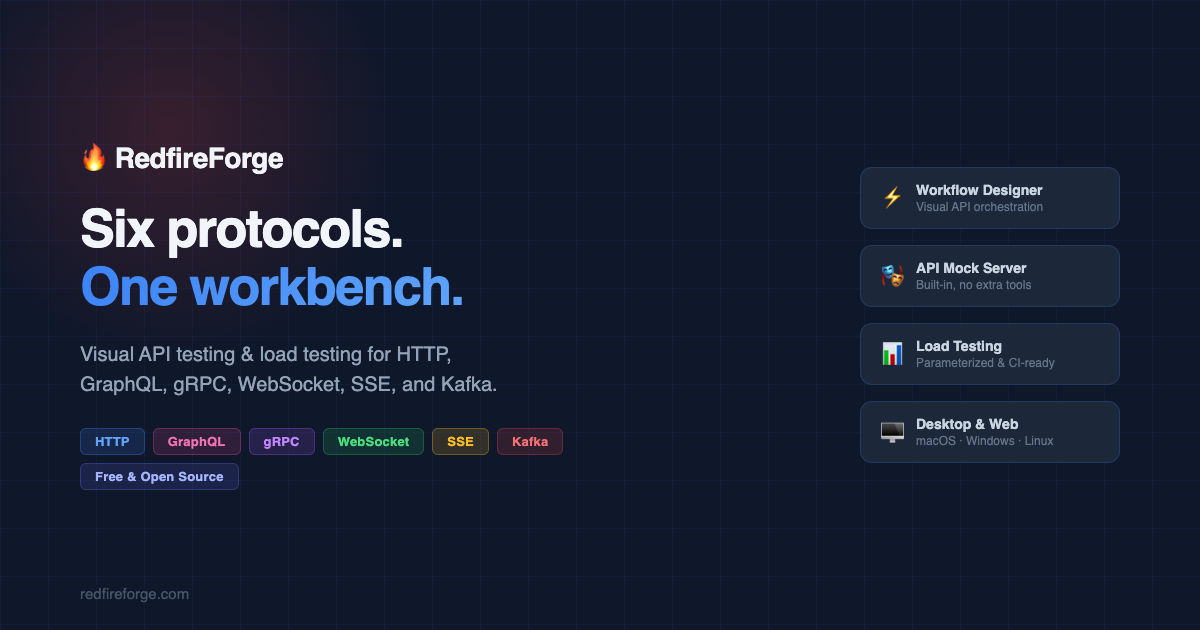
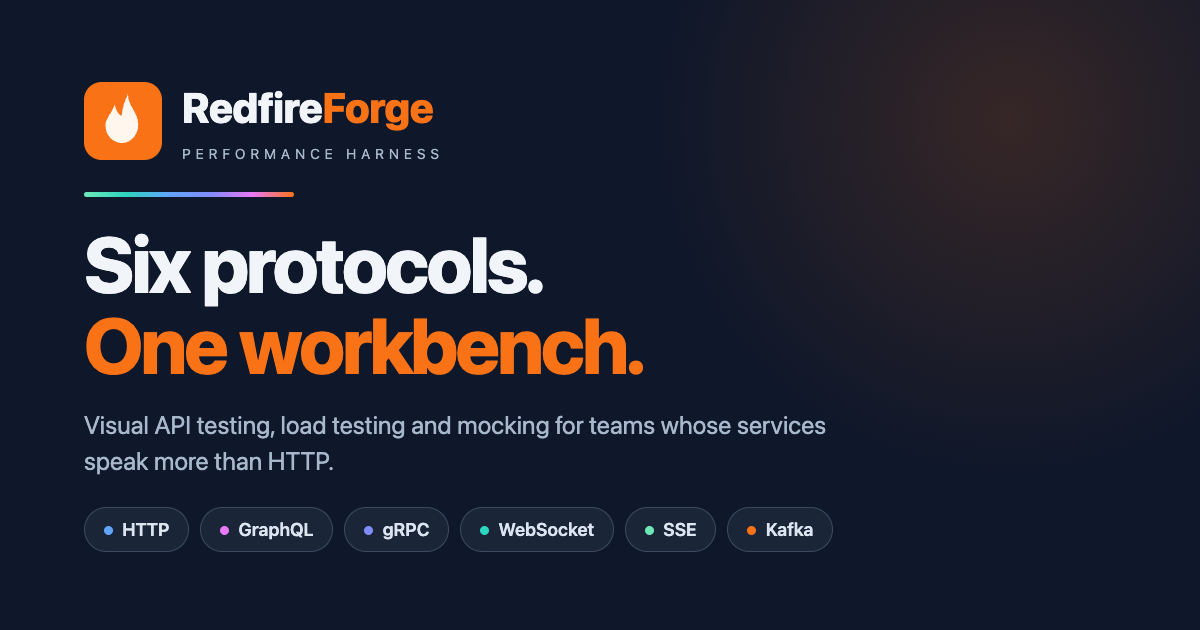
feat(brand): adopt the unified flame mark across the site
Matches the app and repo identity. Replaces the Tauri default logo that
was serving as favicon.png and icon-192.png, and the fire emoji used as
the nav, comparison-panel and footer logo.

- new BrandMark component renders the cream flame glyph; the ember tile
  keeps coming from .logo-mark / .one-tool-logo
- both tiles switch from an ember gradient to flat ember, matching the
  two-colour rule the mark is built on
- icon-192.png was a 128px file under a 192 name; now actually 192px
- adds favicon.svg and a real 180px apple-touch-icon
- og-image rebuilt on the new mark

diff --git a/src/pages/LandingPage.tsx b/src/pages/LandingPage.tsx
@@ -8,6 +8,7 @@ import {
   formatReleaseDate,
   type LatestRelease,
 } from '../utils/githubRelease';
+import { BrandMark } from '../components/BrandMark';
 import { DownloadPanel } from '../components/DownloadPanel';
 import { SiteNav } from '../components/SiteNav';
 import '../styles/landing.css';
@@ -161,7 +162,7 @@ function ProblemSection() {
           <div className="swap-col after">
             <div className="swap-title">With RedfireForge — one workbench</div>
             <div className="one-tool">
-              <div className="one-tool-logo" aria-hidden>🔥</div>
+              <BrandMark className="one-tool-logo" />
               <div className="one-tool-name">RedfireForge</div>
               <div className="one-tool-chips">
                 {['HTTP', 'GraphQL', 'gRPC', 'WebSocket', 'SSE', 'Kafka', 'Load testing', 'Mock server', 'CLI'].map((c) => (
@@ -687,7 +688,7 @@ function SiteFooter() {
         <div className="footer-grid">
           <div className="footer-brand">
             <Link to="/" className="logo">
-              <span className="logo-mark" aria-hidden>🔥</span>
+              <BrandMark className="logo-mark" />
               <span>RedfireForge</span>
             </Link>
             <p>

diff --git a/src/components/BrandMark.tsx b/src/components/BrandMark.tsx
@@ -1,0 +1,19 @@
+// Canonical brand flame. Mirrored in public/logo-tile.svg, public/logo-mark.svg
+// and the app's Tauri icons — keep them in sync if the mark ever changes.
+const FLAME = 'M37 4.5C37 16.5 47.2 22.8 47.6 35C48 46.2 40.2 54.6 31 54.6'
+  + 'C21.6 54.6 14 46.6 14 36.6C14 29 20.2 24.8 23.6 15.2'
+  + 'C24.6 21.8 27.6 25.4 30.6 26.8C31.2 18.6 34 10.6 37 4.5Z';
+
+/**
+ * Cream flame glyph. The ember tile behind it comes from the CSS class, so this
+ * renders the glyph only.
+ */
+export function BrandMark({ className }: { className: string }) {
+  return (
+    <span className={className} aria-hidden>
+      <svg viewBox="0 0 64 64" focusable={false}>
+        <path d={FLAME} fill="#fff7ed" />
+      </svg>
+    </span>
+  );
+}

diff --git a/src/components/SiteNav.tsx b/src/components/SiteNav.tsx
@@ -1,5 +1,6 @@
 import { useEffect, useRef, useState } from 'react';
 import { Link, useLocation } from 'react-router-dom';
+import { BrandMark } from './BrandMark';
 import '../styles/landing.css';
 
 const GITHUB_REPO = 'https://github.com/redfireforge/redfireforge-public';
@@ -92,7 +93,7 @@ export function SiteNav() {
     <nav className="nav nav-landing">
       <div className="nav-inner">
         <Link to="/" className="logo">
-          <span className="logo-mark" aria-hidden>🔥</span>
+          <BrandMark className="logo-mark" />
           <span>RedfireForge</span>
         </Link>
         <div className="nav-links">

diff --git a/index.html b/index.html
@@ -2,8 +2,9 @@
 <html lang="en">
   <head>
     <meta charset="UTF-8" />
-    <link rel="icon" type="image/png" href="/favicon.png" />
-    <link rel="apple-touch-icon" href="/icon-192.png" />
+    <link rel="icon" type="image/svg+xml" href="/favicon.svg" />
+    <link rel="icon" type="image/png" sizes="32x32" href="/favicon.png" />
+    <link rel="apple-touch-icon" sizes="180x180" href="/apple-touch-icon.png" />
     <meta name="viewport" content="width=device-width, initial-scale=1.0" />
     <title>RedfireForge — Six protocols. One workbench.</title>
     <meta

diff --git a/src/styles/landing.css b/src/styles/landing.css
@@ -366,11 +366,16 @@
   width: 54px;
   height: 54px;
   border-radius: 14px;
-  background: linear-gradient(140deg, var(--ember), var(--ember-deep));
+  background: var(--ember);
   display: grid;
   place-items: center;
-  font-size: 27px;
   box-shadow: 0 2px 10px color-mix(in srgb, var(--ember) 35%, transparent);
+}
+
+.one-tool-logo svg {
+  width: 80%;
+  height: 80%;
+  display: block;
 }
 
 .one-tool-name {

diff --git a/src/styles/global.css b/src/styles/global.css
@@ -76,10 +76,16 @@ a {
   width: 28px;
   height: 28px;
   border-radius: 7px;
-  background: linear-gradient(140deg, var(--ember), var(--ember-deep));
+  background: var(--ember);
   display: grid;
   place-items: center;
-  font-size: 15px;
+  flex: 0 0 auto;
+}
+
+.logo-mark svg {
+  width: 80%;
+  height: 80%;
+  display: block;
 }
 
 .nav-links {
